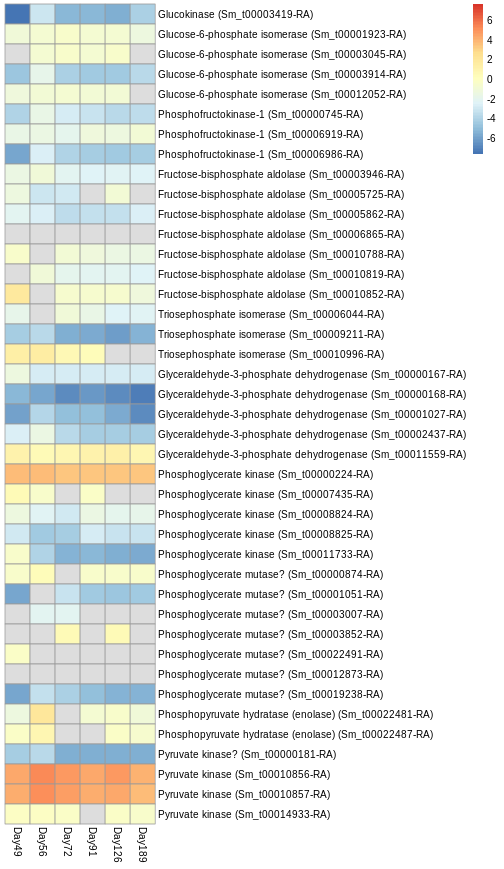
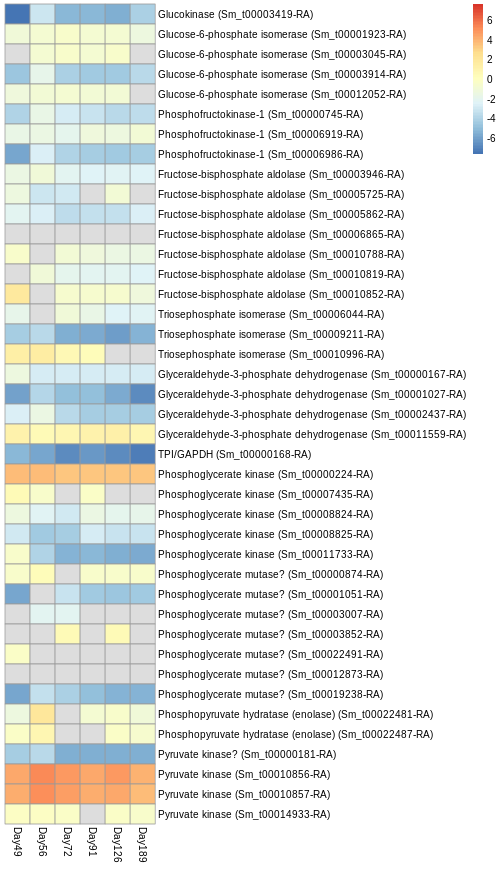
Fix some heatmaps

Changed region(s): [[0.0, 0.435, 0.9226, 0.5593]]

diff --git a/10_FinalResults/README.md b/10_FinalResults/README.md
@@ -89,6 +89,10 @@ Some genes modestly upregulated, particularly in GF04
 Need to check that all annotations are correct, but very little seems to be regulated; SOME upregulation at 56d?
 * Where there are multiple copies of a gene, some are upregulated while others are downregulated
   * How different are their sequences?
+* Re: glyceraldehyde 3-phosphate dehydrogenase:
+  * "In addition to this long established metabolic function, GAPDH has recently been implicated in several non-metabolic processes,
+     including transcription activation, initiation of apoptosis, ER to Golgi vesicle shuttling, and fast axonal, or axoplasmic transport" (Wikipedia)
+
 
 _Results below are preliminary; some genes may be unaccounted for_
 
@@ -153,11 +157,22 @@ _Any further conclusions to be drawn?_
 ### Calvin cycle
 **Relevance**: Related to photosynthesis, so would expect downregulation
 
-Results need checking, as many of the genes involved seem to be upregulated, some quite significantly
-* This could be due to these genes being involved in other pathways, however
+Some upregulated genes shared with glycolysis:
+* Phosphoglycerate kinase (Sm_t00000224-RA)
+* Triosephosphate isomerase (Sm_t00010996-RA)
+* Fructose-bisphosphate aldolase (Sm_t00010852-RA)
 
-_Check the upregulated genes_
+Some upregulated genes are shared with the pentose phosphate pathway
+* Transketolase
+* Phosphopentose isomerase
+* Phosphopentose epimerase
 
+Fructose-1,6-bisphosphatase is shared with gluconeogenesis
+
+Phosphoribulokinase (Sm_t00022457-RA) is only upregulated at 49d, but quite significantly so; it then moves into downregulation
+* This gene is supposed to be unique to the Calvin cycle, and the sequence appears to be accurate (if anything, the gene model should be extended a little)
+* Why would such a gene be upregulated in darkness?
+  * Also requires ATP so would be expending energy this way...
 
 | R05 | GF04 |
 |-----|------|
